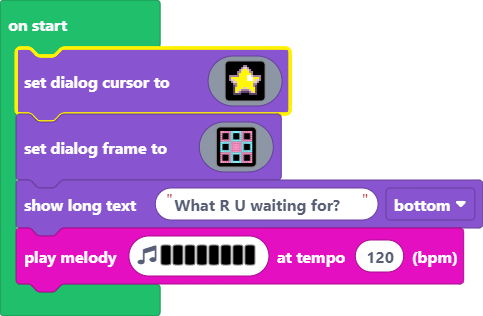
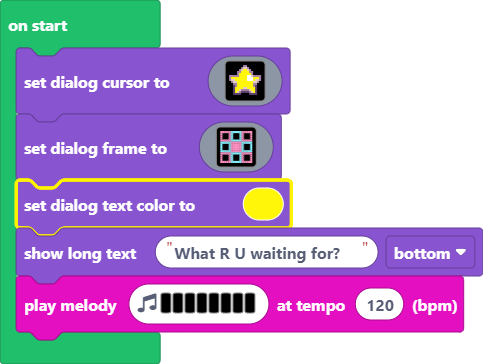
Text colour

diff --git a/main.ts b/main.ts
@@ -33,5 +33,6 @@ game.setDialogFrame(img`
     3 . . . 3 9 . . . 9 3 . . . 3 
     3 3 3 3 3 9 9 9 9 9 3 3 3 3 3 
     `)
+game.setDialogTextColor(5)
 game.showLongText("What R U waiting for?", DialogLayout.Bottom)
 music.playMelody("C5 B A G F E D C ", 120)
